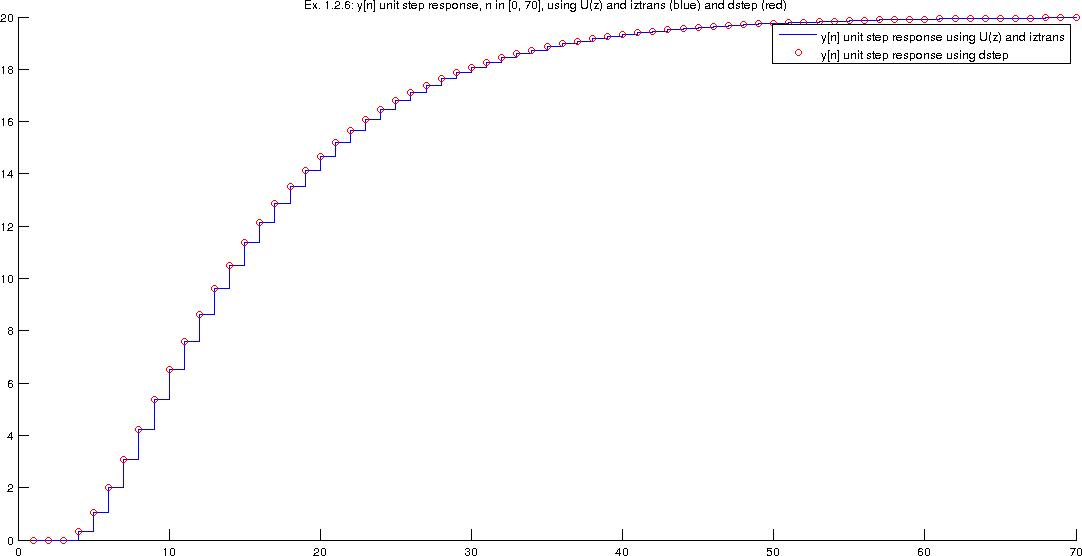
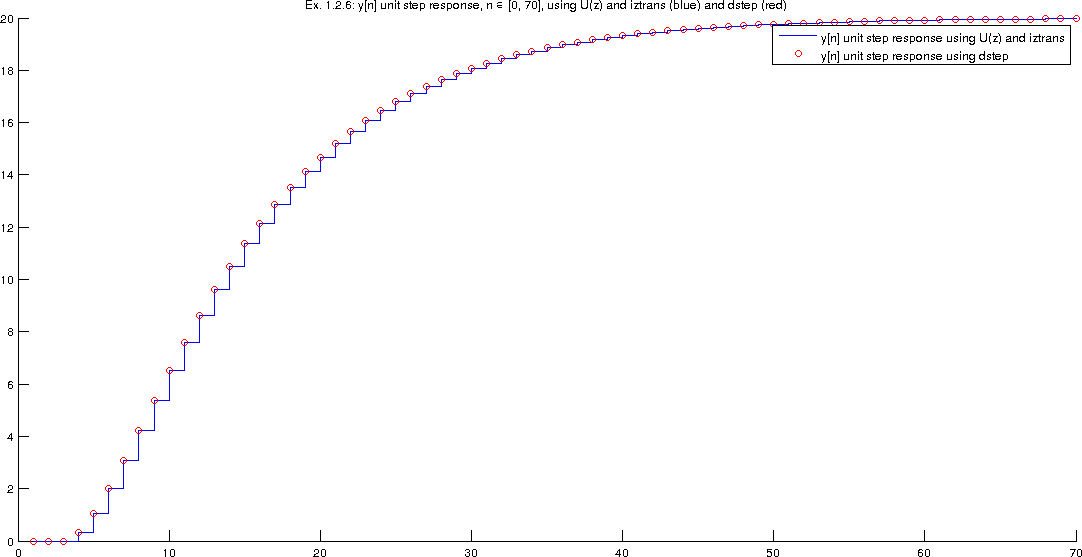
[src] ex. 2 until 2.2 (pseudo-inclusive); [report] images update

diff --git a/tp2/src/ex1.m b/tp2/src/ex1.m
@@ -35,30 +35,35 @@ figure('Name', titl_);
 zplane(zeroes, poles);
 title(titl_);
 
+fprintf('Press ENTER to continue.\n\n'); pause();
+
 %% Ex. 1.2.2
 b = [0 0 0 0.3137 0 -0.1537];
 a = [1 -2.3 1.74 -0.432 0 0];
 
 zeroes_poles = [roots(b)' roots(a)'];
-for i = 1:length(zeroes_poles)
-	if abs(zeroes_poles(i)) > 1
-		i = 0;
+for i_ = 1:length(zeroes_poles)
+	if abs(zeroes_poles(i_)) > 1
+		i_ = 0;
 		break;
 	end;
 end;
 
-if i
+if i_
 	fprintf('Ex. 1.2.2\nThe y[n] system is stable, since every zero and pole is inside the unit circle.\n\n');
 else
 	fprintf('Ex. 1.2.2\nThe y[n] system is unstable, since not every zero and pole is inside the unit circle.\n\n');
 end;
+
+fprintf('Press ENTER to continue.\n\n'); pause();
 
 %% Ex. 1.2.3
 syms z;
 H = (0.3137 * z^2 - 0.1537) / (z^5 - 2.3 * z^4 + 1.74 * z^3 - 0.432 * z^2);
 h = iztrans(H);
 fprintf('Ex. 1.2.3\nSystem''s impulse response, h[n]:\n'); pretty(h);
-fprintf('\n\n');
+
+fprintf('\n\nPress ENTER to continue.\n\n'); pause();
 
 %% Ex. 1.2.4
 LLIM = 0;
@@ -84,8 +89,11 @@ stairs(h1_n);
 plot(h2_n(1:RLIM), 'ro');
 plot(h3_n, 'g+');
 hold off;
-title(sprintf(titl_, 'in'));
+title(sprintf(titl_, '\in'));
 legend('h[n] using iztrans', 'h[n] using impz', 'h[n] using dimpulse');
+fprintf('Ex. 1.2.4 (plotted)\n');
+
+fprintf('Press ENTER to continue.\n\n'); pause();
 
 %% Ex. 1.2.5
 syms z;
@@ -95,7 +103,10 @@ U = 1 / (1 - z^-1);
 Y = U * H;
 y = iztrans(Y);
 
+fprintf('Ex. 1.2.5\n');
 fprintf('System''s unit step response:'); pretty(y);
+
+fprintf('\n\nPress ENTER to continue.\n\n'); pause();
 
 %% Ex. 1.2.6
 LLIM = 0;
@@ -122,8 +133,11 @@ hold all;
 stairs(y1_n(1:RLIM));
 plot(y2_n, 'ro');
 hold off;
-title(sprintf(titl_, 'in'));
+title(sprintf(titl_, '\in'));
 legend('y[n] unit step response using U(z) and iztrans', 'y[n] unit step response using dstep');
+
+fprintf('Ex. 1.2.6 (plotted)\n');
+fprintf('Press ENTER to continue.\n\n'); pause();
 
 %% Ex. 1.2.7
 syms z;
@@ -143,6 +157,8 @@ Y = X * H;
 y = iztrans(Y);
 
 fprintf(sprintf('The y[n] system''s response to %s:\n', char(x_expr))); pretty(y);
+
+fprintf('\n\nPress ENTER to continue.\n\n'); pause();
 
 %% Ex. 1.2.8
 LLIM = 0;
@@ -184,8 +200,10 @@ stairs(n, y1_n);
 plot(y2_n, 'ro');
 plot(y3_n, 'g+');
 hold off;
-title(sprintf(titl_, 'in'));
+title(sprintf(titl_, '\in'));
 legend('y[n] response to the specific input using iztrans over convolution', 'y[n] response to the specific input using filter', 'y[n] response to the specific input using dlsim');
+
+fprintf('Press ENTER to continue.\n\n'); pause();
 
 %% Ex. 1.2.9
 b = [0 0 0 0.3137 0 -0.1537];
@@ -198,11 +216,14 @@ titl_ = 'y[n] frequency response in %s, %s %s [0, %s] rad';
 figure('Name', sprintf('Ex. 1.2.9: %s', sprintf(titl_, 'amplitude (dB) and phase (deg)', 'Ω', '∈', 'π')));
 subplot(2, 1, 1);
 plot(db(abs(H_w)), 'b');
-title(sprintf(titl_, 'amplitude (dB)', 'w', 'in', 'pi'));
+title(sprintf(titl_, 'amplitude (dB)', '\Omega', '\in', '\pi'));
 
 subplot(2, 1, 2);
 plot(unwrap(rad2deg(angle(H_w))), 'b');
-title(sprintf(titl_, 'phase (deg)', 'w', 'in', 'pi'));
+title(sprintf(titl_, 'phase (deg)', '\Omega', '\in', '\pi'));
+
+fprintf('Ex. 1.2.9 (plotted)\n');
+fprintf('Press ENTER to continue.\n\n'); pause();
 
 %% Ex. 1.2.10
 b = [0 0 0 0.3137 0 -0.1537];

diff --git a/tp2/src/ex214_216.m b/tp2/src/ex214_216.m
@@ -1,0 +1,81 @@
+function [] = ex214_216(t_, x_t, T0, m_max, m_max_i)
+%% Ex. 2.1.1
+W0 = 2 * pi / T0;
+
+%% Ex. 2.1.4
+fprintf('Ex. 2.1.4\n');
+
+[C_m, Theta_m] = FourierSeries(t_', x_t', T0, m_max);
+
+titl_ = 'Fourier Transform %s, for m = %d';
+figure('Name', sprintf('Ex. 2.1.4: %s', sprintf(titl_, 'Coefficient (Cm) and Sinusoidal Phase, θm', m_max)));
+subplot(2, 1, 1);
+stem(0:m_max, C_m);
+title(sprintf(titl_, 'Coefficient, C_m', m_max));
+
+subplot(2, 1, 2);
+stem(0:m_max, Theta_m);
+title(sprintf(titl_, 'Sinusoidal Phase, \theta_m', m_max));
+fprintf('Press ENTER to continue.\n\n'); pause();
+
+%% Ex. 2.1.5
+fprintf('Ex. 2.1.5 (plotted)\n');
+
+interval = '';
+for m = 1:length(m_max_i)
+	interval = sprintf('%s%d', interval, m_max_i(m));
+
+	if m ~= length(m_max_i)
+		interval = sprintf('%s, ', interval);
+	end
+end
+
+titl_ = sprintf('Fourier Transform Signal Approximation for m %%s [%s]', interval);
+figure('Name', sprintf(titl_, '∈'));
+hold all;
+
+plot(t_, x_t, 'b'); % original signal
+
+i_ = 1;
+ft = zeros(size(t_));
+plot_colors = ['r', 'g', 'm', 'k'];
+for m = 0:m_max
+	ft = ft + C_m(m+1) * cos(m * W0 * t_ + Theta_m(m+1));
+
+	if i_ <= length(m_max_i) && m == m_max_i(i_)
+		plot(t_, ft, plot_colors(mod(i_, length(plot_colors)) + 1));
+		i_ = i_ + 1;
+	end
+end
+
+plot(t_, ft, plot_colors(mod(length(m_max_i), length(plot_colors)) + 1));
+plot(t_, x_t, 'b--'); % original signal (to assure it is visible as well as a perfect approximation)
+title(sprintf(titl_, '\in'));
+hold off;
+
+fprintf('Press ENTER to continue.\n\n'); pause();
+
+%% Ex. 2.1.6
+fprintf('Ex. 2.1.6 (plotted)\n');
+c_m = zeros(1, m_max * 2 + 1);
+c_m(m_max + 1) = C_m(1) * cos(Theta_m(1));
+
+for m = 1:m_max
+	c_m(m_max + 1 + m) = C_m(1 + m) * (cos(Theta_m(1 + m)) + 1j * sin(Theta_m(1 + m))) / 2;
+	c_m(m) = C_m(1 + m) * (cos(Theta_m(1 + m)) - 1j * sin(Theta_m(1 + m))) / 2;
+end
+
+c_m_amp = abs(c_m);
+c_m_phase = angle(c_m);
+
+titl_ = 'Fourier Transform %s coefficients (%s), for m %s [%d, %d]';
+figure('Name', sprintf('Ex: 2.1.6: %s', sprintf(titl_, 'cm', 'amplitude and phase', '∈', -m_max, m_max)));
+subplot(2, 1, 1);
+plot(-m_max:m_max, c_m_amp, '.');
+title(sprintf(titl_, 'c_m', 'amplitude', '\in', -m_max, m_max));
+
+subplot(2,1,2);
+plot(-m_max:m_max, c_m_phase, '.');
+title(sprintf(titl_, 'c_m', 'phase', '\in', -m_max, m_max));
+
+end

diff --git a/tp2/src/ex2.m b/tp2/src/ex2.m
@@ -1,0 +1,67 @@
+%% Ex. 2
+%% Ex. 2.1
+%% Ex. 2.1.1 - 2.1.3
+fprintf('Ex. 2.1.1, 2.1.2, 2.1.3\n');
+T0 = input('Fundamental period: ');
+t_ = linspace(0, T0, 500);
+
+syms t;
+
+choice = menu('Choose a signal, x(t):', 'Square Wave', 'Sawtooth Wave', 'Custom expression for x(t)');
+
+if (choice == 1)
+	x_t = ex213_square(t_);
+elseif (choice == 2)
+	x_t = ex213_sawtooth(t_, T0);
+else
+    x_t = double(subs(input('Insert the custom expression, x(t): '), 't', t_));
+end
+
+%% Ex. 2.1.4 - 2.1.6
+m_max = 100;
+m_max_i = [0, 1, 3, 5, 10, 50];
+
+ex214_216(t_, x_t, T0, m_max, m_max_i);
+
+%% Ex. 2.2.
+%% Ex. 2.2.1
+T0 = 2 * pi;
+t_ = linspace(0, T0, 500);
+x_t = ex213_square(t_);
+
+m_max = 100;
+m_max_i = [0, 1, 3, 5, 10, 50];
+
+ex214_216(t_, x_t, T0, m_max, m_max_i);
+
+%% Ex. 2.2.2
+T0 = 2 * pi;
+t_ = linspace(0, T0, 500);
+x_t = ex213_sawtooth(t_, T0);
+
+m_max = 100;
+m_max_i = [0, 1, 3, 5, 10, 50];
+
+ex214_216(t_, x_t, T0, m_max, m_max_i);
+
+%% Ex. 2.2.3
+T0 = 2 * pi;
+t_ = linspace(0, T0, 500);
+
+% x_t = 1 + 2 * sin(12 * pi * t_ + pi/4) .* cos(21 * pi * t_);
+x_t = 1 + cos(33 * pi * t_ + 7 * pi / 4) + cos(9 * pi * t_ + pi / 4);
+
+m_max = 100;
+m_max_i = [0, 1, 3, 5, 10, 50];
+
+ex214_216(t_, x_t, T0, m_max, m_max_i);
+
+%% Ex. 2.2.4
+T0 = 2 * pi;
+t_ = linspace(0, T0, 500);
+x_t = -2 + 4 * cos(4 * t_ + pi / 3) - 2 * sin(10 * t_);
+
+m_max = 100;
+m_max_i = [0, 1, 3, 5, 10, 50];
+
+ex214_216(t_, x_t, T0, m_max, m_max_i);

diff --git a/tp2/src/FourierSeries.m b/tp2/src/FourierSeries.m
@@ -1,0 +1,25 @@
+function [Cm,tetam] = FourierSeries(t, x, T0, m_max)
+    % t e x devem ser vectores coluna
+    A = zeros(length(t), 2 * m_max + 2);
+    for k = 0:m_max
+        A(:,k + 1) = cos(2 * pi / T0 * t * k);
+        A(:,m_max + 1 + k + 1) = -sin(2 * pi / T0 * t * k);
+    end
+    
+    coef = pinv(A) * x;
+    a = coef(1:m_max + 1);
+    b = coef(m_max + 2:2 * m_max + 2);
+    [nl, nc] = size(a);
+    
+    for lin = 1:nl,
+        for col = 1:nc,
+            if abs(a(lin, col)) < 0.001 && abs(b(lin, col)) < 0.001,
+                a(lin, col) = 0; b(lin, col) = 0;
+            end
+        end
+    end
+    
+    Cm = abs(a + b * 1j); % ? Cm=(a.^2+b.^2).^0.5
+    tetam = angle(a + b * 1j); % ? tetam=atan(b./a)
+end
+

diff --git a/tp2/src/ex213_square.m b/tp2/src/ex213_square.m
@@ -1,0 +1,5 @@
+function [x_t] = ex213_square(t_)
+%% Ex. 2.1.3
+    x_t = zeros(size(t_));
+    x_t(1:round(length(t_) / 2)) = 1;	
+end

diff --git a/tp2/report/report.tex b/tp2/report/report.tex
@@ -207,4 +207,7 @@
 	& = & 20
 \end{eqnarray}
 
+\section{Exercise 2}
+TODO
+
 \end{document}

diff --git a/tp2/src/ex213_sawtooth.m b/tp2/src/ex213_sawtooth.m
@@ -1,0 +1,4 @@
+function [x_t] = ex213_square(t_, T0)
+	%% Ex. 2.1.3
+    x_t = t_ / T0;
+end
